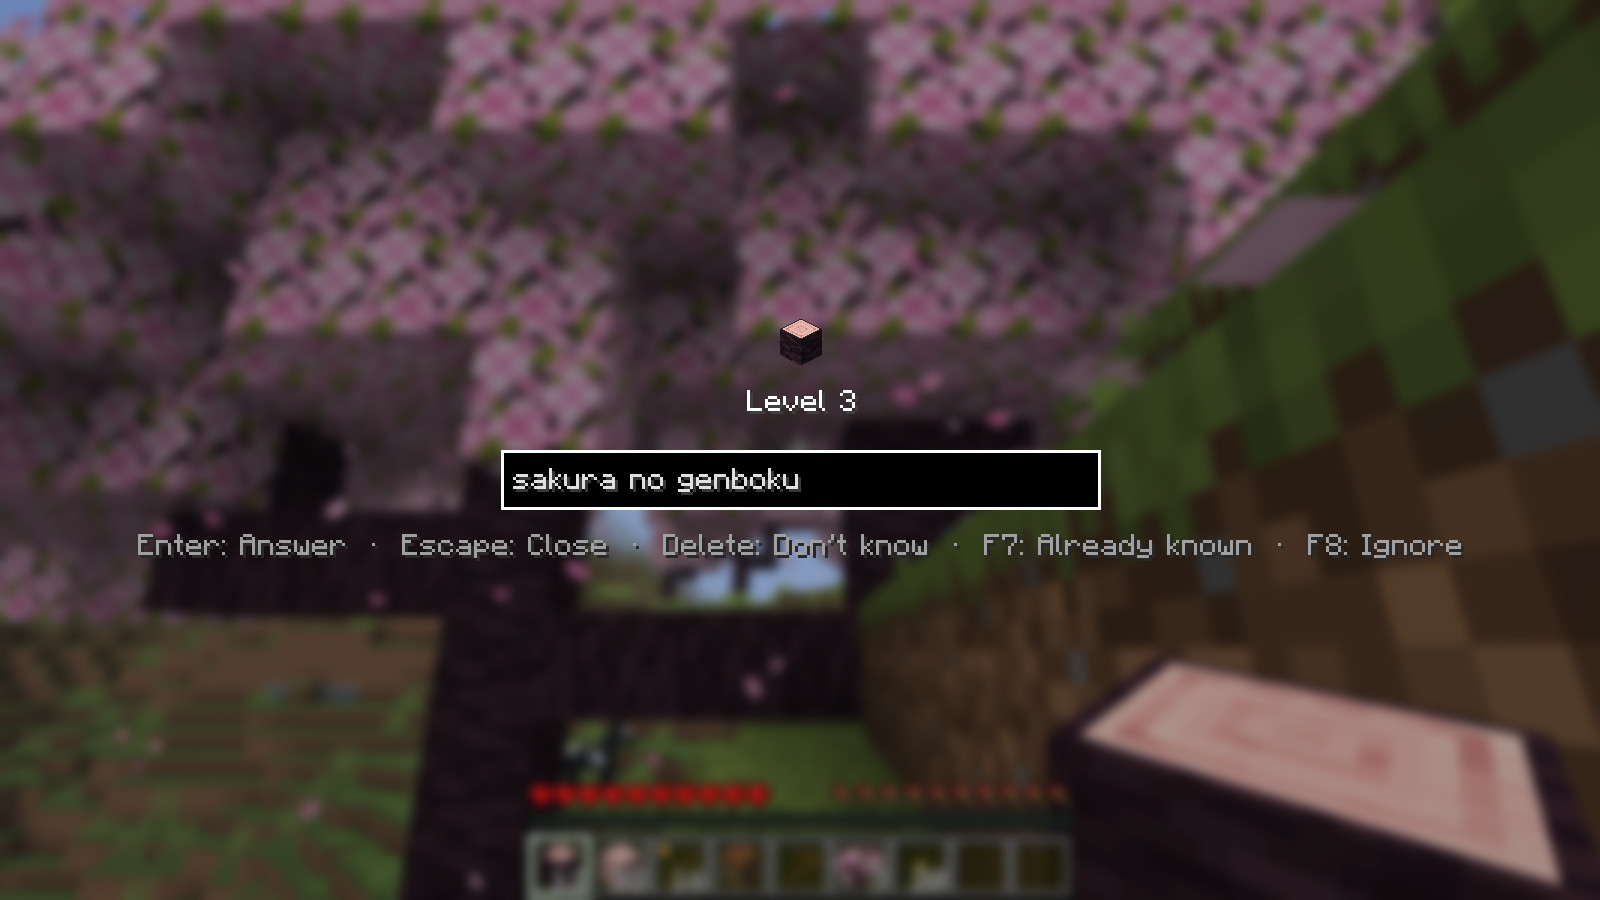
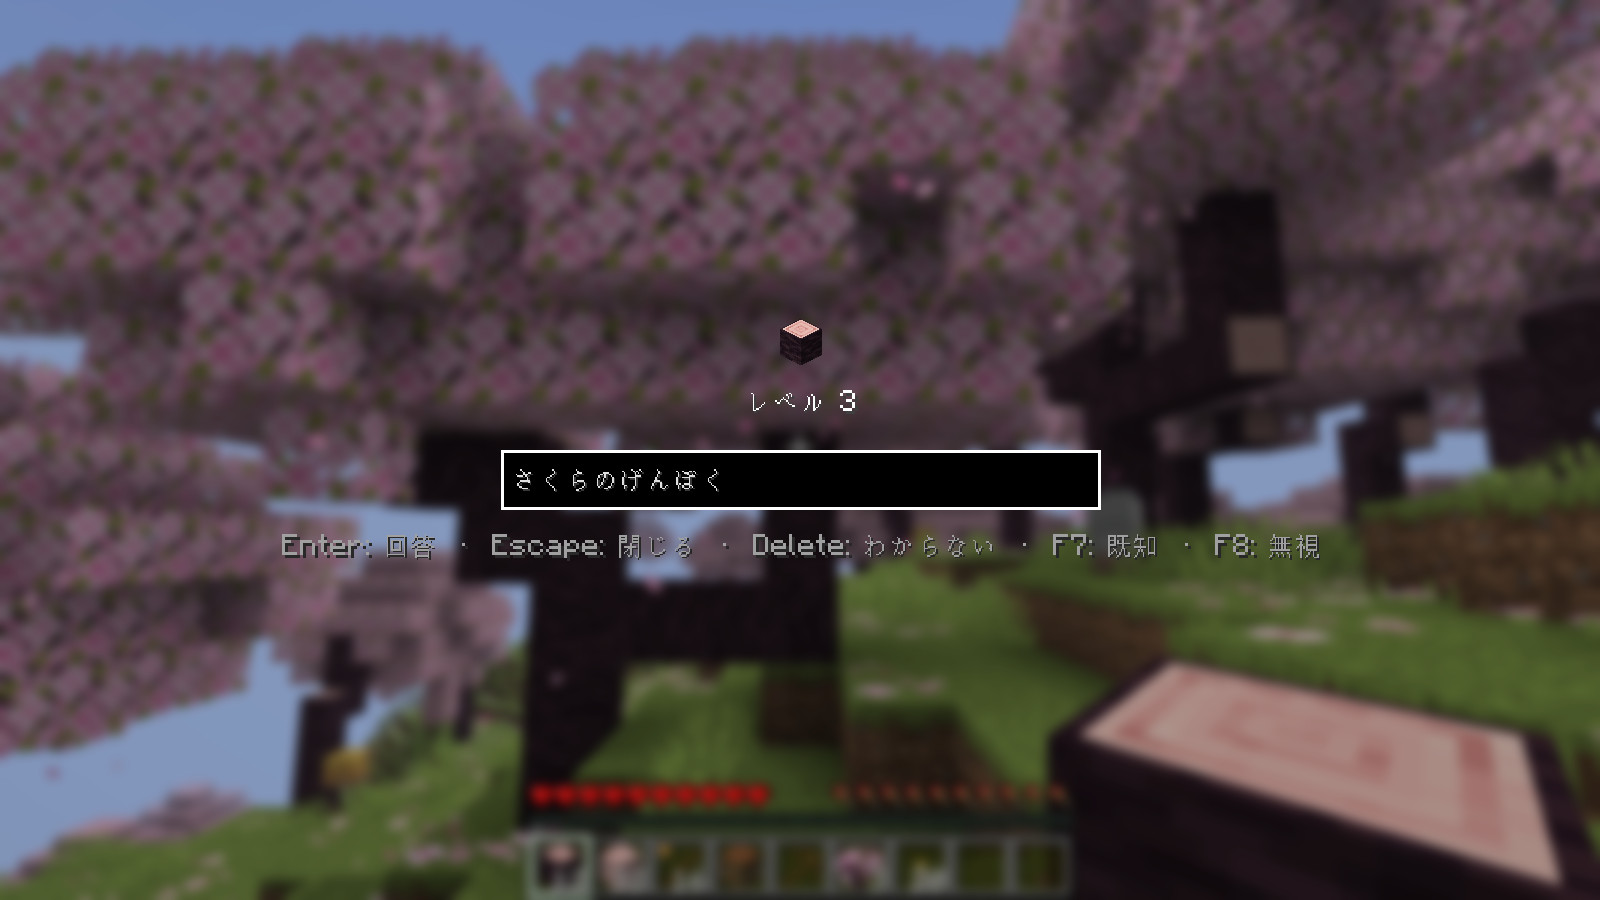
Shorten the README and show the game in Japanese (#35)

diff --git a/README.md b/README.md
@@ -1,123 +1,70 @@
 <p align="center">
-  <img src="docs/images/icon.png" alt="Oboecraft icon: a log block with the kanji 覚 carved into it" width="160">
+  <img src="docs/images/icon.png" alt="Oboecraft icon: a log block with the kanji 覚 carved into it" width="140">
 </p>
 
 <h1 align="center">Oboecraft</h1>
 
 <p align="center">
-  A Fabric mod for Minecraft that teaches the Japanese names of the game's items with spaced repetition.
+  A Minecraft mod that locks every item until you can name it in Japanese.
 </p>
 
 <p align="center">
-  <img src="docs/images/answer-menu.jpg" alt="The answer menu over a cherry grove, with the answer typed in romaji" width="800">
+  <img src="docs/images/answer-menu.jpg" alt="The answer menu over a cherry grove, with さくらのげんぼく typed in" width="800">
 </p>
 
-Every item in the game starts out locked. You can move a locked item around in your inventory, but to place it, use it, craft with it or put it in a chest, you first type its Japanese name, the name it has in the Japanese version of Minecraft. A correct answer unlocks every stack of that item for a while. Each correct answer makes the time longer, from 10 minutes up to a month, until the item is mastered and never locks again. A wrong answer costs you part of the item.
+Punch a tree and you get a log you can't use. To place it, craft with it or put it in a chest, you first type its name from the Japanese version of the game: サクラの原木. A correct answer unlocks every log of that kind for ten minutes. Each correct answer after that keeps it unlocked for longer, from an hour to a day to a month, until the word is mastered and never locks again. This is spaced repetition, and the game is the flashcard deck.
 
-The name comes from 覚える (*oboeru*), "to memorize". See [the project idea](docs/idea.md) for where it started.
+- **Any way of writing it counts.** サクラの原木, さくらのげんぼく and `sakura no genboku` all pass. The sound must be right, and so must the kanji: 元木 has the same sound and still fails.
+- **Mistakes cost items.** You get two attempts. A fail removes up to half of that item from your inventory, moves it down a level and bans it for five minutes, so it can't be answered until the ban ends. Words you have known for longer lose less.
+- **New items start with a lesson**, where you can see the answer and nothing is lost.
+- **Names stay hidden.** A locked item is called `???` until you answer.
 
-## Playing
+<table>
+  <tr>
+    <td><img src="docs/images/pass.jpg" alt="After a correct answer, サクラの原木 is shown at the top of the screen"></td>
+    <td><img src="docs/images/fail.jpg" alt="After a fail, the answer menu shows サクラの板材 and its reading"></td>
+  </tr>
+  <tr>
+    <td>A correct answer shows how the name is written, kanji included.</td>
+    <td>A fail shows the answer and its reading.</td>
+  </tr>
+  <tr>
+    <td><img src="docs/images/inventory.jpg" alt="The inventory, with the tooltip of サクラの板材 showing 49分57秒 until it locks"></td>
+    <td><img src="docs/images/word-list.jpg" alt="The word list with known items and their readings"></td>
+  </tr>
+  <tr>
+    <td>Unlocked items show when they lock again. The amber corner means soon.</td>
+    <td>The word list (J) keeps known, ignored and mastered words.</td>
+  </tr>
+</table>
 
-### What you need
+## Installing
 
-- Minecraft: Java Edition 26.3
-- [Fabric Loader](https://fabricmc.net/use/) 0.20.1 or newer
-- [Fabric API](https://modrinth.com/mod/fabric-api) for Minecraft 26.3
-- Optional: [Mod Menu](https://modrinth.com/mod/modmenu) for Minecraft 26.3, to open the settings screen
+You need Minecraft: Java Edition 26.3 with [Fabric Loader](https://fabricmc.net/use/) 0.20.1 or newer and [Fabric API](https://modrinth.com/mod/fabric-api). Download `oboecraft-<version>.jar` from the [latest release](https://github.com/willdalh/oboecraft/releases/latest) and put it in your `mods` folder with Fabric API.
 
-### Installing
+On a server, install the mod on the server too. Players need the same version of Oboecraft to join. The server checks every answer and keeps each player's progress. In singleplayer, your progress is shared by all your worlds.
 
-1. Install Fabric Loader for Minecraft 26.3 with the [Fabric installer](https://fabricmc.net/use/).
-2. Download Fabric API for Minecraft 26.3.
-3. Download `oboecraft-<version>.jar` from the [latest release](https://github.com/willdalh/oboecraft/releases/latest).
-4. Put the jars, and Mod Menu's if you want it, in the `mods` folder of your Minecraft folder, then start the game with the Fabric profile in the launcher.
+Set the game language to 日本語 under Options → Language, so the names you learn are the ones you see. Locks only apply in survival and adventure mode.
 
-On a server, install Fabric Loader, Fabric API and Oboecraft on the server too. Every player needs the same version of Oboecraft as the server, and players without it can't join.
+## Keys
 
-Your progress in singleplayer is shared by all your worlds, so a new world doesn't start over. Each server keeps its own progress for each player.
+| Key | In the answer menu |
+|---|---|
+| Enter | Answer |
+| Delete | Don't know: fails at once, or shows the answer in a lesson |
+| F9 | Show the answer, in a lesson |
+| F7 | Already known: unlock the item for good |
+| F8 | Ignore: drop the item and never learn it |
+| Esc | Close without losing anything |
 
-### How to play
+J opens the word list, where known, ignored and mastered items can go back to level 0. You can right-click a locked item in your inventory to answer it without using it. All keys can be changed under Options → Controls.
 
-The mod is made for playing with the game in Japanese: choose 日本語 under Options → Language. Typing in Japanese with your keyboard's Japanese input works too.
+## Settings
 
-- A locked item's name is hidden as `???`. Using it opens the answer menu. You can also right-click a locked item in your inventory to open it.
-- Type the item's Japanese name in kanji, kana or romaji, or a mix, and press Enter. For an oak log, `オークの原木`, `おーくのげんぼく` and `ookunogenboku` are all correct. Spaces and the particle の are optional.
-- The first time you meet an item, the answer menu is a lesson. Press F9 to see the answer, then type it. Nothing is lost in a lesson.
-- After that, you get two attempts. Two wrong answers, or Delete for "Don't know", is a fail: part of the item is removed from your inventory and the open container, the item goes down a level, and it can't be answered again for 5 minutes. A fail at level 1 removes half, and higher levels remove less. The answer is shown after a fail.
-- A correct answer shows the Japanese name, with its kanji, at the top of the screen. Hovering over an unlocked item shows the time until it locks again, and its slot gets a marker when it is close.
-- Press F7 for "Already known" to unlock an item you know forever, or F8 to ignore an item you don't want to learn. Ignored items are dropped and can't be picked up. Press J to open the word list, where you can put known, ignored and mastered items back to level 0.
-- Esc closes the answer menu without losing anything, and the item stays locked.
-- In creative and spectator mode nothing is locked, and your progress is kept.
-- An anvil only renames name tags, so you can't give an item a name of your own.
-
-All keys can be changed under Options → Controls, in the Oboecraft section.
-
-A correct answer shows the name as it is written, even when you typed it in romaji:
-
-<p align="center">
-  <img src="docs/images/pass.jpg" alt="After a pass, サクラの原木 is shown at the top of the screen" width="800">
-</p>
-
-Locked items show `???` in place of their names. Unlocked items show how long they have left, and items close to locking get an amber marker on their slot, like the sticks and cobblestone here:
-
-<p align="center">
-  <img src="docs/images/inventory.png" alt="Two inventory views: a locked wooden pickaxe named ??? and cherry planks with a lock timer. Amber markers show on the sticks and cobblestone, which lock soon." width="800">
-</p>
-
-After a fail, the answer menu shows the name and its reading:
-
-<p align="center">
-  <img src="docs/images/fail.jpg" alt="The answer menu after a fail, showing サクラの板材 and its reading" width="800">
-</p>
-
-### Which answers count
-
-The rule is that the same sound passes and a different sound fails. Each name is split into parts with their readings, like サクラ, の, 原 (げん) and 木 (ぼく), and every part can be typed as written, in hiragana or katakana, or in romaji.
-
-| Answer for サクラの原木 (cherry log) | Result | Why |
-|---|---|---|
-| `サクラの原木` | Pass | As written |
-| `さくらのげんぼく` | Pass | All kana |
-| `sakura no genboku` | Pass | Romaji |
-| `sakuraの原木` | Pass | Romaji, kana and kanji mixed |
-| `サクラ原木` | Pass | The particle の is optional |
-| `サクラの原き` | Fail | き isn't the reading of 木 here |
-| `サクラの元木` | Fail | Same sound, but the wrong kanji |
-
-Long vowels can be written several ways (`ōku`, `ooku`, `ouku` and `o-ku` for オーク), both romaji styles pass (`shi` and `si`, `tsu` and `tu`), and punctuation and case are ignored. The full rules are in [Answers](docs/design/answers.md).
-
-The names and readings come from a name list of about 1,700 items, made from Minecraft's Japanese translation with the help of JMdict, KANJIDIC2 and Sudachi, and reviewed by hand.
-
-### Levels
-
-| Level | Unlocked for | A fail moves it down |
-|---|---|---|
-| 0 | Lesson | — |
-| 1 | 10 minutes | Stays at 1 |
-| 2 | 1 hour | 1 level |
-| 3 | 4 hours | 1 level |
-| 4 | 1 day | 1 level |
-| 5 | 3 days | 2 levels |
-| 6 | 1 week | 2 levels |
-| 7 | 2 weeks | 2 levels |
-| 8 | 1 month | 2 levels |
-| 9 | Mastered | — |
-
-The times use real-world time, so items keep locking while you are away from the game.
-
-### Settings
-
-The times and amounts above are the defaults. With Mod Menu installed, open the settings from Oboecraft in its mod list. Without it, edit the files in the `config/oboecraft` folder of your Minecraft folder.
-
-- **Clickable buttons:** the answer menu shows a button for each action, besides the keys. Each player chooses this on their own computer.
-- **The rules:** the levels with their intervals and demotions, the ban length, how much less a fail removes at each level, and whether dropping an item counts as using it. In singleplayer you choose them, and they apply to all your worlds. On a server, the owner sets them in `config/oboecraft/server.json` in the server's folder, which the server reads when it starts. The settings screen shows them there but can't change them.
+The levels, their intervals, the ban length and how much a fail removes can be changed with [Mod Menu](https://modrinth.com/mod/modmenu) or in `config/oboecraft/server.json`. On a server, only the server's owner can change them. There is also a setting for clickable buttons in the answer menu.
 
 ## License
 
-The code is under the [MIT license](LICENSE). The Japanese names come from Minecraft, and the readings in the name list are under CC BY-SA 4.0. See [`CREDITS.md`](CREDITS.md).
+The code is under the [MIT license](LICENSE). The Japanese names come from Minecraft, and the readings in the name list are under CC BY-SA 4.0. See [`CREDITS.md`](CREDITS.md). Oboecraft is not an official Minecraft product and is not approved by or associated with Mojang or Microsoft.
 
-Oboecraft is not an official Minecraft product and is not approved by or associated with Mojang or Microsoft.
-
-## Development
-
-[AGENTS.md](AGENTS.md) has the commands to build, test and run the mod, and [`docs/`](docs/) describes how it works: the [design](docs/design/README.md) of the game rules, the [architecture](docs/architecture/overview.md) of the code, and the [glossary](docs/glossary.md).
+[AGENTS.md](AGENTS.md) has the commands to build and test the mod, and [`docs/`](docs/) describes how it works.
